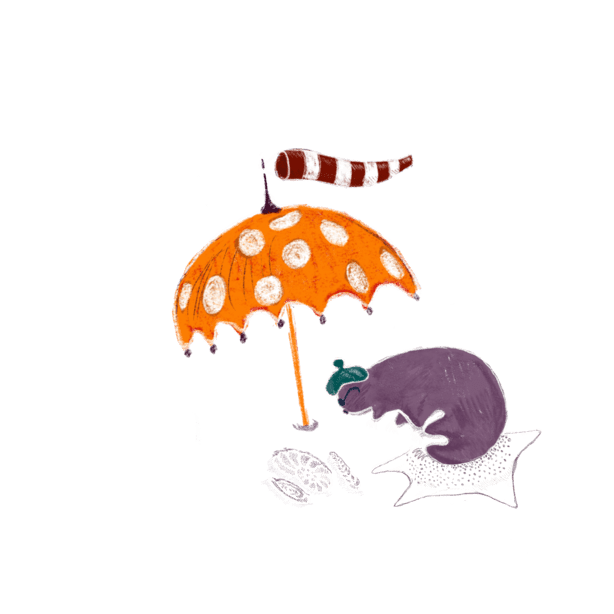
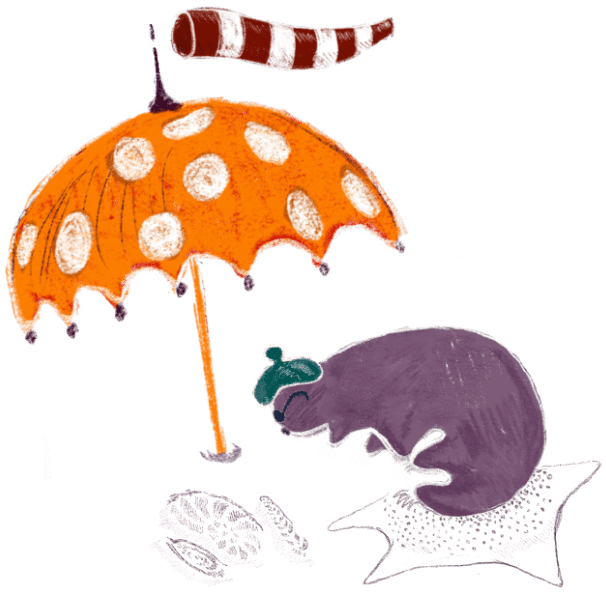
mobile view

diff --git a/tardigrada/src/app/about/about.component.html b/tardigrada/src/app/about/about.component.html
@@ -1,9 +1,11 @@
-<div class="background">
+<div id="background">
   <div id="top-passage">
     Блуждающая тардиграда – он-лайн школа для детей,<br />
     которые оказались отрезаны от систем образования в связи<br />
     с российско-украинским конфликтом.
   </div>
+
+  <div id="mobile-separation"></div>
 
   <div class="container" id="first-container">
     <div class="text">
@@ -23,7 +25,7 @@
   </div>
 
   <div class="container" id="second-container">
-    <div class="image">
+    <div class="image mobile-none">
       <img id="baloon" src="/assets/images/baloon.png" />
     </div>
     <div class="text">
@@ -34,6 +36,9 @@
         Если вы находитесь в сложной ситуации и ваши дети не могут ходить в школу - все занятия бесплатны.
         <br><br>
         Мы работаем для всех и будем рады стать для вас онлайн-школой дополнительного образования. Пока ваши донаты для нас - единственный источник финансирования. Если вы не в бегах, мы ожидаем от вас оплаты в приемлемом для вас объеме.
+      </div>
+      <div class="image mobile-only">
+        <img id="fossil" src="/assets/images/fossil.png" />
       </div>
       <div class="title" id="third-title">
         кто мы и что мы делаем?
@@ -53,19 +58,25 @@
       <div class="passage">
         Мы смотрели на бессилие педагогов, которые не понимали, что делать. Когда происходит что-то плохое, главное - просто делать что-то, что было бы НЕ плохим. Мы написали в соцсетях пост о том, что готовы взять пару бесплатных групп. Назавтра родилась Тардиграда.
         <br><br>
+        <div class="image mobile-only">
+          <img id="orange-umbrella" src="/assets/images/orange-umbrella.png" />
+        </div>
         Тардиграда - это школа. Хотя, на самом деле, она больше похожа на сообщество людей с близкими ценностями. Дети ходят на уроки, родители подслушивают, а потом выпрашивают себе отдельные занятия. Кто-то знакомится и, случайно оказавшись в одной точке мира, начинает общаться оффлайн.
         <br><br>
         Все наши учителя - это люди, которым неуютно в обычной школе. Которые ненавидят планы уроков, заполнение журналов и выставление оценок. Зато они все любят и знают свои предметы и уважают детей.    
       </div>
     </div>
-    <div class="image">
+    <div class="image mobile-none">
       <img id="fossil" src="/assets/images/fossil.png" />
     </div>
   </div>
 
-  <div class="container">
-    <div class="image">
+  <div class="container" id="fourth-container">
+    <div class="image mobile-none">
       <img id="orange-umbrella" src="/assets/images/orange-umbrella.png" />
+    </div>
+    <div class="image mobile-only">
+      <img id="baloon" src="/assets/images/baloon.png" />
     </div>
     <div class="text">
       <div class="passage">

diff --git a/tardigrada/src/app/about/about.component.css b/tardigrada/src/app/about/about.component.css
@@ -1,4 +1,4 @@
-.background {
+#background {
   background-color: #d8d7e1;
   overflow: scroll;
   display: flex;
@@ -79,9 +79,97 @@
 }
 
 #baloon {
-  height: 575px;
+  height: 470px;
+}
+
+#fossil {
+  width: 340px;
+}
+
+#orange-umbrella {
+  height: 420px;
 }
 
 #bold {
   font-weight: 400;
+}
+
+#fourth-container {
+  margin-top: 120px;
+}
+
+.mobile-only {
+  display: none;
+}
+
+@media screen and (max-width: 800px) {
+  .mobile-only {
+    display: block;
+  }
+
+  .mobile-none {
+    display: none;
+  }
+
+  #background {
+    padding: 100px 32px 32px 32px;
+  }
+
+  #top-passage {
+    font-size: 21px;
+  }
+
+  #mobile-separation {
+    border-bottom: 1px solid white;
+    margin: 50px -32px 0 -32px;
+    box-shadow: 0px 3px 5px black;
+  }
+
+  .container {
+    flex-direction: column-reverse;
+  }
+
+  .title {
+    font-size: 30px;
+    line-height: 40px;
+  }
+
+  .passage {
+    font-size: 16px;
+  }
+
+  #five {
+    height: 150px;
+    padding-bottom: 40px;
+  }
+
+  #fossil {
+    width: 300px;
+    padding-top: 60px;
+  }
+
+  #orange-umbrella {
+    height: 400px;
+    padding-bottom: 25px;
+  }
+
+  #baloon {
+    height: 400px;
+    padding-bottom: 100px;
+    padding-top: 60px;
+  }
+
+  #third-container {
+    margin-top: 20px;
+  }
+
+  #fourth-container {
+    margin-top: 0;
+  }
+
+  #fourth-container .mobile-only {
+    display: flex;
+    align-items: center;
+    justify-content: center;
+  }
 }
